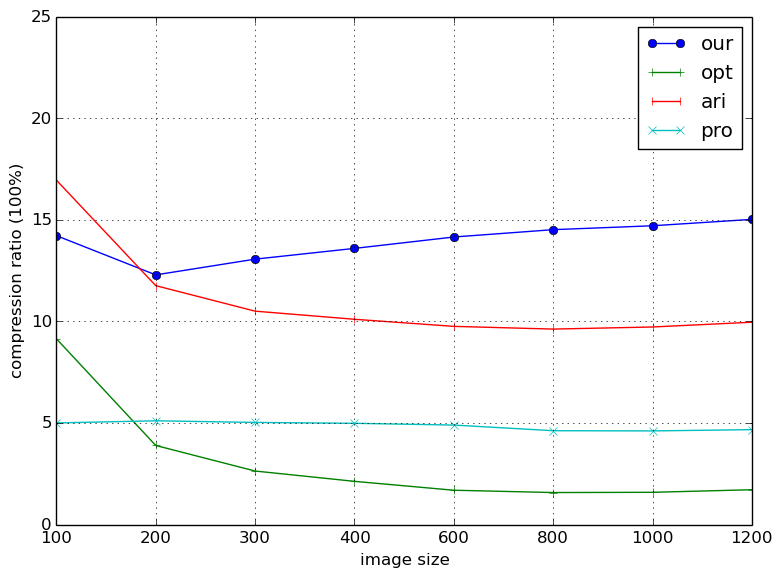
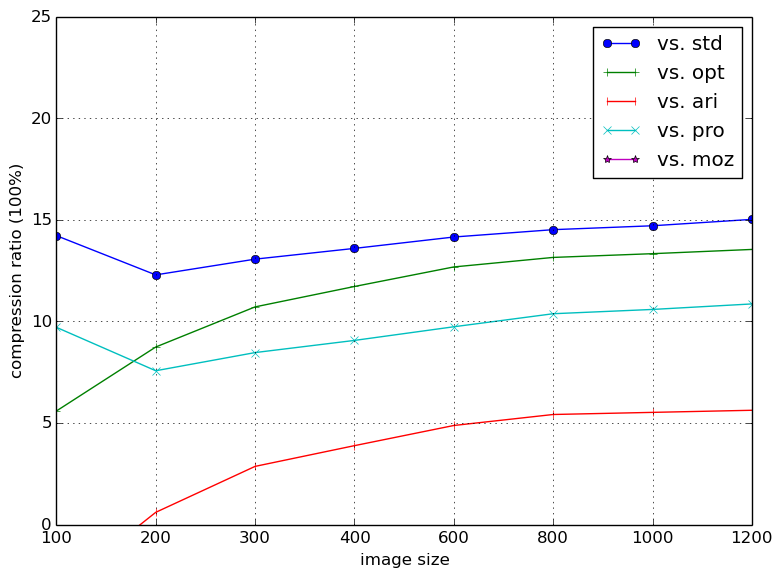
a

diff --git a/exp.py b/exp.py
@@ -12,12 +12,36 @@ def printf(f, s):
 
 def copy_images(folder, f, s, e):
 	for i in range(s, e+1):
-		os.system("cp images/%s_Q75/%s.jpg %s/"%(f, str(i), folder))
+		os.system("cp %s/%s.jpg %s/"%(f, str(i), folder))
 
 def copy_other_images(folder, f, s, e):
 	for i in range(1, 101):
 		if i < s or i > e:
-			os.system("cp images/%s_Q75/%s.jpg %s/"%(f, str(i), folder))
+			os.system("cp %s/%s.jpg %s/"%(f, str(i), folder))
+
+def get_candidates_size(img_folder, q):
+	total_std_size = 0
+	total_opt_size = 0
+	total_ari_size = 0
+	total_pro_size = 0
+	total_moz_size = 0
+
+	for i in range(1, 101):
+		c = commands.getstatusoutput("/opt/libjpeg-turbo/bin/jpegtran -outputcoef t " + img_folder + "/" + str(i) + ".jpg temp.jpg")
+		total_std_size += os.path.getsize("temp.jpg")
+
+		c = commands.getstatusoutput("/opt/libjpeg-turbo/bin/jpegtran -optimize " + img_folder + "/" + str(i) + ".jpg temp.jpg")
+		total_opt_size += os.path.getsize("temp.jpg")
+
+		c = commands.getstatusoutput("/opt/libjpeg-turbo/bin/jpegtran -arithmetic " + img_folder + "/" + str(i) + ".jpg temp.jpg")
+		total_ari_size += os.path.getsize("temp.jpg")
+
+		c = commands.getstatusoutput("/opt/libjpeg-turbo/bin/jpegtran -progressive " + img_folder + "/" + str(i) + ".jpg temp.jpg")
+		total_pro_size += os.path.getsize("temp.jpg")
+
+		c = commands.getstatusoutput("time -p /opt/mozjpeg/bin/cjpeg -quality " + q + " -notrellis -notrellis-dc " + img_folder + "/" + str(i) + ".jpg > temp.jpg")
+		total_moz_size += os.path.getsize("temp.jpg")
+	return total_std_size, total_opt_size, total_ari_size, total_pro_size, total_moz_size
 
 root = "exp_" + str(int(time.time()))
 os.system("mkdir %s"%(root))
@@ -25,7 +49,9 @@ f_out = open(root+"/exp.out", "w", 0)
 
 
 for f in folders:
-	print f
+	printf(f_out, f)
+	img_folder = "images/%s_Q75"%(f)
+	std,opt,ari,pro,moz = get_candidates_size(img_folder, f)
 	overall_optimized_size = 0
 	overall_encoded_size = 0
 	for i in range(10):
@@ -35,9 +61,9 @@ for f in folders:
 		os.system("mkdir %s"%(exp_folder))
 		f_out_self = open(exp_folder+"/exp.out", "w", 0)
 		os.system("mkdir %s/%s"%(exp_folder, "img_train"))
-		copy_other_images("%s/%s"%(exp_folder, "img_train"), f, i*10+1, i*10+10)
+		copy_other_images("%s/%s"%(exp_folder, "img_train"), img_folder, i*10+1, i*10+10)
 		os.system("mkdir %s/%s"%(exp_folder, "img_test"))
-		copy_images("%s/%s"%(exp_folder, "img_test"), f, i*10+1, i*10+10)
+		copy_images("%s/%s"%(exp_folder, "img_test"), img_folder, i*10+1, i*10+10)
 		if i > 0:
 			os.system("cp %s/img_train/max* %s/img_train/"%(root+"/exp_" + f + "_0", exp_folder))
 			os.system("cp %s/img_train/coef* %s/img_train/"%(root+"/exp_" + f + "_0", exp_folder))
@@ -60,5 +86,6 @@ for f in folders:
 		f_out_self.close()
 		overall_optimized_size += total_optimized_size
 		overall_encoded_size += total_encoded_size
-	printf(f_out, "\t" + str(overall_optimized_size) + " " + str(overall_encoded_size) + " " + str((overall_optimized_size-overall_encoded_size)*1.0/overall_optimized_size))
+		printf(f_out, "\t" + str(overall_optimized_size) + " " + str(overall_encoded_size) + " " + str((overall_optimized_size-overall_encoded_size)*1.0/overall_optimized_size))
+	printf(f_out, "\t our %d, std %d, opt %d, ari %d, pro %d, moz %d"%(overall_encoded_size, std, opt, ari, pro, moz))
 f_out.close()

diff --git a/result/xing_100/filesize/plot.py b/result/xing_100/filesize/plot.py
@@ -32,13 +32,12 @@ while i < len(ls) and now_f < len(folders):
 		# our 297330, std 346633, opt 314927, ari 287861, pro 329301, moz 314797
 		m = re.match("\t our (.*), std (.*), opt (.*), ari (.*), pro (.*), moz (.*)", l)
 		
-		baseline = int(m.group(2))
-		our.append(get_ratio(int(m.group(1)), baseline))
-		#std.append(get_ratio(int(m.group(1)), baseline))
-		opt.append(get_ratio(int(m.group(3)), baseline))
-		ari.append(get_ratio(int(m.group(4)), baseline))
-		pro.append(get_ratio(int(m.group(5)), baseline))
-		moz.append(get_ratio(int(m.group(6)), baseline))
+		#our.append(get_ratio(int(m.group(1)), baseline))
+		std.append(get_ratio(int(m.group(1)), int(m.group(2))))
+		opt.append(get_ratio(int(m.group(1)), int(m.group(3))))
+		ari.append(get_ratio(int(m.group(1)), int(m.group(4))))
+		pro.append(get_ratio(int(m.group(1)), int(m.group(5))))
+		#moz.append(get_ratio(int(m.group(6)), baseline))
 		now_f += 1
 		break
 
@@ -46,14 +45,14 @@ print ari
 fig = plt.figure()
 grid()
 ax = fig.add_subplot(111)    # The big subplot
-ax.plot(our, "-o")
-#ax.plot(std, "-x")
+#ax.plot(our, "-o")
+ax.plot(std, "-o")
 ax.plot(opt, "-+")
 ax.plot(ari, "-|")
 ax.plot(pro, "-x")
-#ax.plot(moz, "-*")
+ax.plot(moz, "-*")
 ax.set_ylim([0, 25])
-ax.legend(["our", "opt", "ari", "pro", "moz"])
+ax.legend(["vs. std", "vs. opt", "vs. ari", "vs. pro", "vs. moz"])
 ax.set_xlabel("image size")#, fontsize=32)
 ax.set_ylabel("compression ratio (100%)")#, fontsize=32)
 plt.xticks(range(len(folders)), folders)
